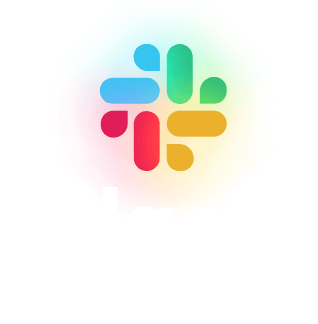
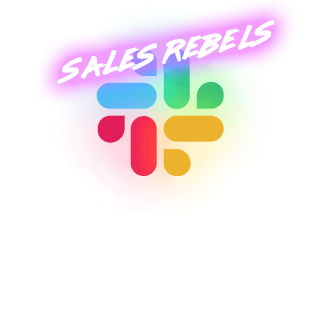
Resources - Desktop hero

Changed region(s): [[0.1415, 0.0284, 0.8774, 0.5678]]

diff --git a/_layouts/pages/resources.html b/_layouts/pages/resources.html
@@ -1,0 +1,69 @@
+---
+layout: page
+---
+{%- comment -%} --- FEATURES --- {%- endcomment -%}
+<section class="section about__features">
+
+    <div class="overlay overlay--top"></div>
+
+    <div class="container">
+
+        <div class="resources__hero-items">
+            {%- for item in page.hero.items -%}
+                <div class="resources__hero-item">
+                    <img src="{{- item.image.path | relative_url -}}" alt="{{- item.image.alt_text -}}" class="resources__hero-item-img">
+                </div>
+            {%- endfor -%}
+        </div>
+
+    </div>
+
+</section>
+
+{%- comment -%} --- TEAM --- {%- endcomment -%}
+<section class="section about__team">
+
+    <div class="container">
+
+        <h2 class="about__team-title">
+            {{- page.team.title -}}
+        </h2>
+
+        <div class="about__team-members about__team-members--desktop">
+            {%- for item in page.team.members -%}
+                <div class="about__team-member{% if forloop.first %} about__team-member--first{% endif %}{% if forloop.last %} about__team-member--last{% endif %}">
+                    <img src="{{- item.img.path | relative_url -}}" alt="{{- item.img.alt_text -}}" class="about__team-img">
+                </div>
+            {%- endfor -%}
+
+            <img src="{{- '/images/rebelBoy.png' | relative_url -}}" alt="" class="about__team-members-top-left-img">
+            <img src="{{- '/images/plastic-bag.png' | relative_url -}}" alt="" class="about__team-members-bottom-right-img">
+        </div>
+
+        <div class="about__team-members about__team-members--mobile">
+            {%- for item in page.team.members -%}
+                    <img src="{{- item.img.path | relative_url -}}" alt="{{- item.img.alt_text -}}" class="about__team-img">
+            {%- endfor -%}
+        </div>
+
+    </div>
+
+</section>
+
+{%- comment -%} --- FAQ --- {%- endcomment -%}
+<section class="section about__faq">
+
+    <div class="container">
+
+        <h2 class="faq__heading about__faq-heading">
+            {{- page.faq.heading -}}
+        </h2>
+
+        {%- include faq.html faq_items=page.faq.items -%}
+
+    </div>
+
+</section>
+
+{%- comment -%} --- CTA --- {%- endcomment -%}
+{%- include cta.html cta=page.cta type="page" -%}

diff --git a/_includes/pages/hero-content.html b/_includes/pages/hero-content.html
@@ -8,9 +8,27 @@
                     {{ page.hero.heading }}
                 </h1>
 
-                <div class="hero__text hero__text--page hero__text--{{ page.page_id }}">
-                    {{ page.hero.text | markdownify }}
-                </div>
+                {%- if page.hero.text and page.hero.text.size > 0 -%}
+                    <div class="hero__text hero__text--page hero__text--{{ page.page_id }}">
+                        {{ page.hero.text | markdownify }}
+                    </div>
+                {%- endif -%}
+
+                {%- if page.hero.tiles -%}
+
+                    <div class="{{ page.page_id }}__hero-tiles-wrapper">
+
+                        <div class="{{ page.page_id }}__hero-tiles">
+                            {%- for img in page.hero.tiles.images -%}
+                                <div class="{{ page.page_id }}__hero-tile">
+                                    <img src="{{- img.path | relative_url -}}" alt="{{- img.alt_text -}}" class="resources__hero-tile-img">
+                                </div>
+                            {%- endfor -%}
+                        </div>
+
+                    </div>
+
+                {%- endif -%}
 
                 {%- if page.hero.cta.url and page.hero.cta.url.size > 0 -%}
                     <div class="hero__cta hero__cta--{{ page.page_id }}">

diff --git a/_sass/hero.scss b/_sass/hero.scss
@@ -17,6 +17,10 @@
         background-image: url(/assets/images/group-hero-bg.jpg);
     }
 
+    &--resources {
+        background-image: url(/assets/images/resources-hero-bg.jpg);
+    }
+
     background-repeat: no-repeat;
     background-size: cover;
     background-attachment: fixed;
@@ -33,9 +37,11 @@
             padding-right: 20px;
         }
 
+        &--teams,
         &--1x1,
         &--group,
-        &--about {
+        &--about,
+        &--resources {
             max-width: 1000px;
         }
 
@@ -47,7 +53,8 @@
     &__content-wrapper {
         &--teams,
         &--group,
-        &--about {
+        &--about,
+        &--resources {
             text-align: center;
         }
     }
@@ -163,6 +170,18 @@
                         margin: 0;
                     }
                 }
+            }
+        }
+
+        &--resources {
+            font-size: 50px;
+            line-height: 1.35;
+            margin-bottom: 36px;
+            @include breakpoint(small) {
+                font-size: 45px;
+            }
+            @include breakpoint(smaller) {
+                font-size: 40px;
             }
         }
 

diff --git a/_sass/pages/resources.scss b/_sass/pages/resources.scss
@@ -1,0 +1,35 @@
+.resources {
+
+    &__hero {
+
+        &-tiles-wrapper {
+            position: relative;
+            margin-top: 60px;
+        }
+
+        // &-tiles-title {
+        //     position: absolute;
+        //     top: 0;
+        //     left: 50%;
+        //     @include lazer;
+        //     @include glow_in($purple);
+        //     transform: translateX(-50%) rotate(-15deg) skew(-35deg,0deg);
+        //     font-size: 30px;
+        //     letter-spacing: 2px;
+        // }
+
+        &-tiles {
+            display: flex;
+            justify-content: space-around;
+            flex-wrap: wrap;
+        }
+
+        &-tile {
+            flex-basis: 20%;
+            margin: 30px;
+        }
+
+    }
+
+
+}

diff --git a/_sass/vars.scss b/_sass/vars.scss
@@ -103,6 +103,10 @@ $colors: 'green', 'blue', 'purple', 'red', 'yellow';
     }
 }
 
+@mixin skew {
+    transform: rotate(-15deg) skew(-35deg,0deg);
+}
+
 @mixin clearfix {
     &:after {
         content: "";

diff --git a/assets/css/styles.scss b/assets/css/styles.scss
@@ -27,6 +27,7 @@
 @import "pages/1x1";
 @import "pages/group";
 @import "pages/about";
+@import "pages/resources";
 
 @import "faq";
 @import "form";

diff --git a/pages/resources.md b/pages/resources.md
@@ -1,0 +1,60 @@
+---
+layout: pages/resources
+permalink: /resources/
+page_id: resources
+has_video: true
+has_carousel: true
+hero:
+  heading: <span>All</span> <span>Things</span> Rebellion…
+  tiles:
+    images:
+      - path: /assets/images/tile-podcast.png
+        alt_text: Selling Local Podcast
+      - path: /assets/images/tile-slack.png
+        alt_text: Sales Rebels Slack
+      - path: /assets/images/tile-blog.png
+        alt_text: Sales Rebels Blog
+      - path: /assets/images/tile-market-tools.png
+        alt_text: Market Tools
+      - path: /assets/images/tile-course-work.png
+        alt_text: Sales Rebel Academy
+team:
+  title: Meet <span>our</span> team
+  members:
+    - img:
+        path: /images/team/1.png
+        alt_text: Team member
+    - img:
+        path: /images/team/2.png
+        alt_text: Team member
+    - img:
+        path: /images/team/3.png
+        alt_text: Team member
+    - img:
+        path: /images/team/4.png
+        alt_text: Team member
+    - img:
+        path: /images/team/5.png
+        alt_text: Team member
+faq:
+  heading: Things we get asked
+  items:
+  - q: What are you Rebelling against?
+    a: |-
+      We are rebelling against the status quo sales results and interactions. We believe the marketplace is yearning for creative, engaging, and authentic sales interactions. And we help businesses and individuals understand how to offer creative experiences this in the modern sales environment.
+  - q: How can I join what you all are doing?
+    a: |-
+      Being a Sales Rebel is simple… Just believe. Believe that human engagement is as valuable as net margin. Believe that creativity and fun are not only allowed in business but they are the missing links. Believe that others are out there fighting for the same as you…. That’s what makes you a Rebel. There are tons of resources and community members. Just get involved!
+  - q: Are you hiring?
+    a: |-
+      Maybe… But we are definitely looking to develop good relationships with people and orgs who want to #ChangeTheGame. Wanna publish content together? Wanna sell the Sales Rebellion to all your friends? Wanna become a Rebel and coach students to achieve legendary status? Let’s talk…
+cta:
+  text: Join<span class="space"></span>the<span class="space"></span>Sales<span class="space"></span>Rebellion's<span class="space"></span>email<span class="space"></span>extravaganza<span class="space"></span>experience
+  button:
+    text: Coming<br>Soon
+    url: ''
+    new_tab: false
+footer:
+  message: " Each time a man stands up for an ideal, or acts to improve a lot of others, or strikes out against injustice, he sends forth a tiny ripple of hope, and... those ripples build a current which can sweep down the mightiest walls of oppression."
+  note: "- Robert F. Kennedy"
+---
